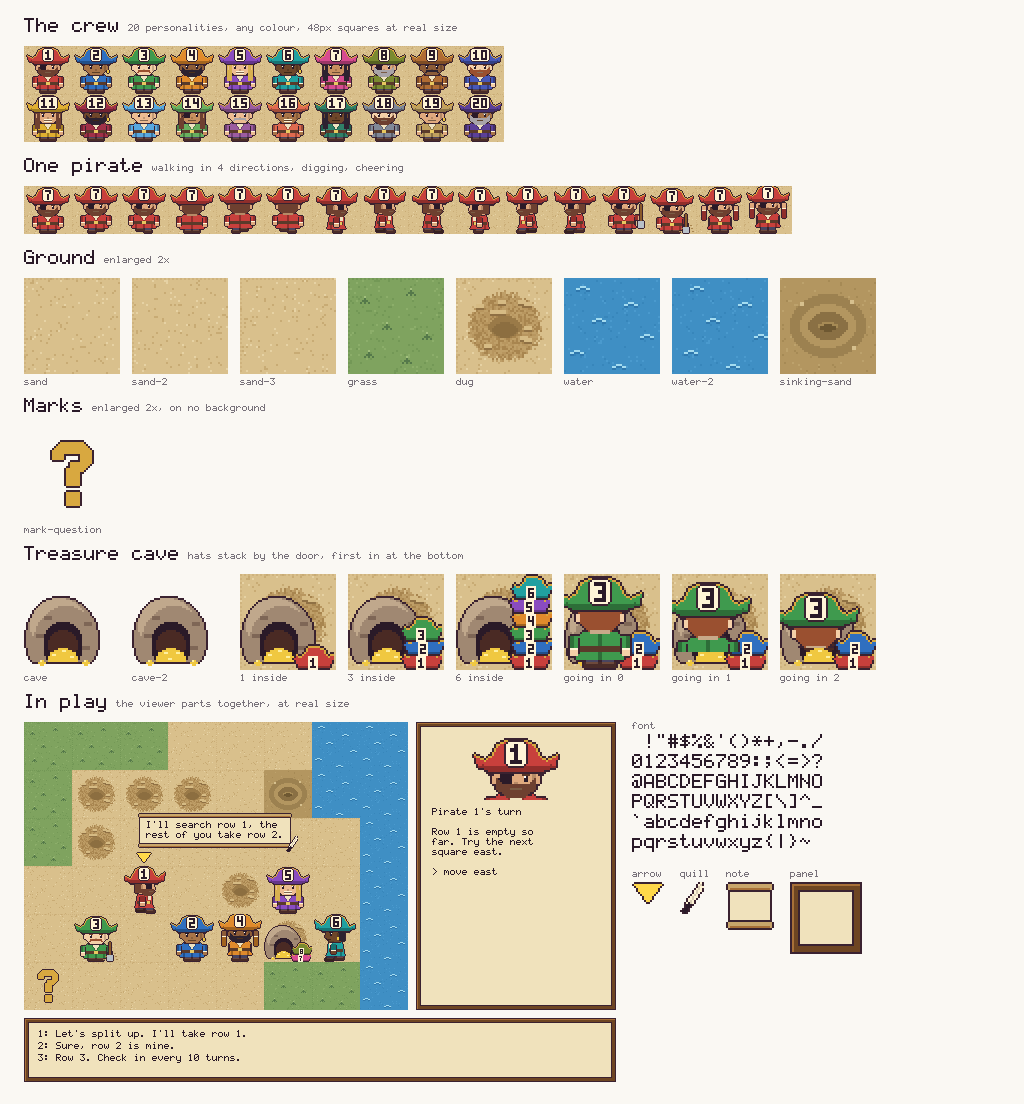
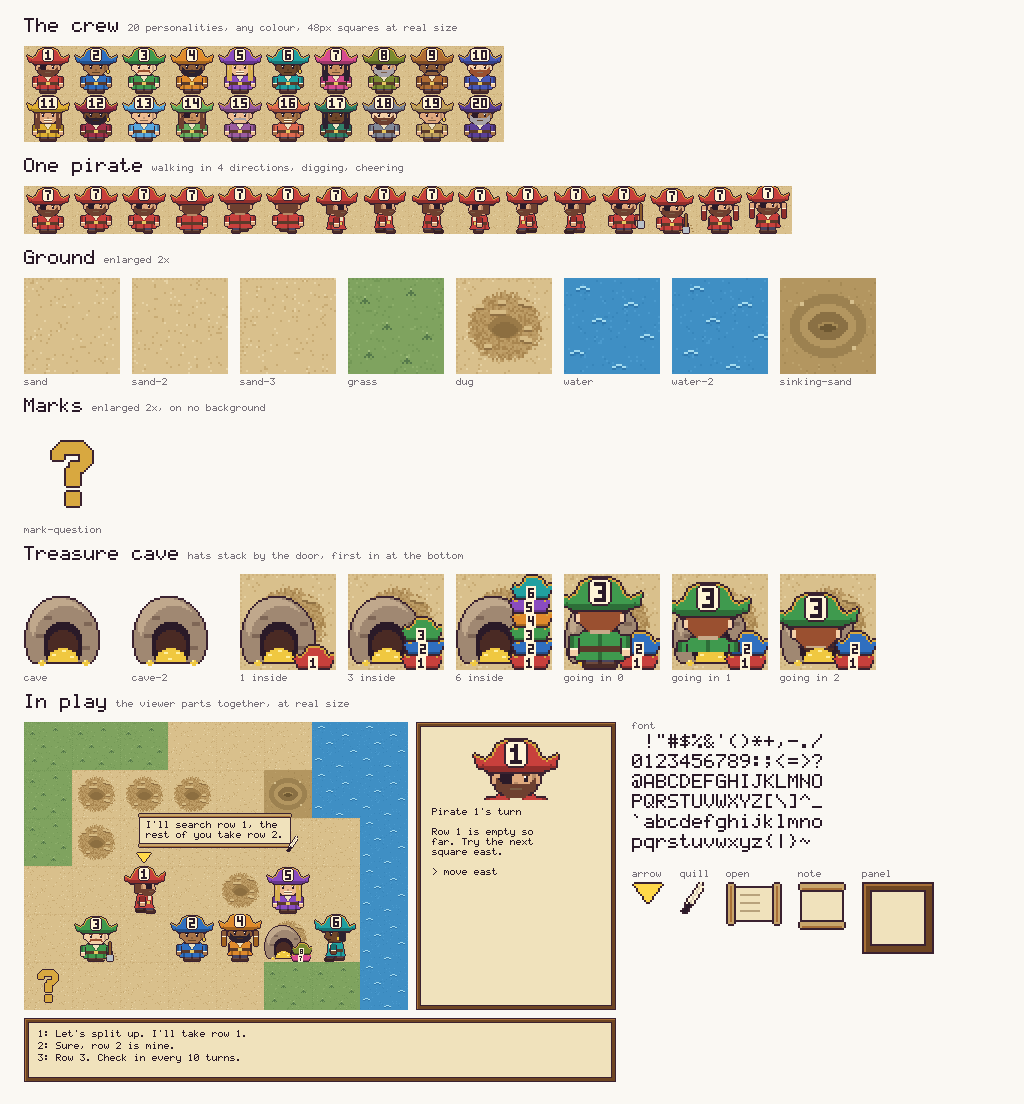
feat(viewer): a pirate reading holds an open scroll, and a read is told by how many new lines it got, never their words

Changed region(s): [[0.6875, 0.7699, 0.9375, 0.8623]]

diff --git a/src/treasure_island/viewer.py b/src/treasure_island/viewer.py
@@ -35,7 +35,7 @@ import assets
 from assets.cave import going_in, hat_stack
 from assets.font import draw_text, text_width, wrap
 from assets.pirates import pirate, portrait
-from assets.ui import panel, scroll_note
+from assets.ui import open_scroll, panel, scroll_note
 from treasure_island.config import parse_config
 from treasure_island.game_state import GameState
 from treasure_island.looks import sprite_values
@@ -57,7 +57,6 @@ PANEL_HEIGHT = 320
 PORTRAIT = (14, 32)
 _PANEL_LEFT = 14
 _TEXT_LEFT = 118
-LOG_LINES = 4
 THOUGHTS = 3
 LINE = 12
 _DID_LINES = 3
@@ -149,11 +148,9 @@ def _note(record):
     return " ".join(words) if words else None
 
 
-def _read(record):
-    """The lines a read returned, or None on a turn that didn't read."""
-    if not any(action["action"] == "read" for action in record["did"]):
-        return None
-    return [_shown(line) for line in record["log_shown"]]
+def _reading(record):
+    """Whether the turn read the scroll; what it read is never drawn."""
+    return any(action["action"] == "read" for action in record["did"])
 
 
 def _said(record):
@@ -222,11 +219,6 @@ def _log_so_far(records, turn):
     return lines
 
 
-def _shown(line):
-    """A line a pirate was shown, with who wrote it when the record says."""
-    return f"{line['by']}: {line['text']}" if "by" in line else line["text"]
-
-
 def _mark(records, treasure, found):
     """What the reader sees on the treasure's square: the cave once dug, else a `?`."""
     if found:
@@ -262,7 +254,7 @@ def scene(records, turn, size, treasure=None):
         "note": _note(current),
         "did": _did(current),
         "thoughts": _thoughts(records, turn),
-        "read": _read(current),
+        "reading": _reading(current),
         "treasure": found,
         "mark": _mark(records, treasure, found),
         "log_so_far": _log_so_far(records, turn),
@@ -450,6 +442,10 @@ def note_spot(shown, note_size, arrow_box):
 def _draw_note(image, shown, arrow_box):
     text = shown["note"]
     if text is None:
+        if shown["reading"]:
+            # A reader holds the scroll open, with none of its words on it.
+            held = open_scroll()
+            image.paste(held, note_spot(shown, held.size, arrow_box), held)
         return
     if len(text) > _NOTE_CHARACTERS:
         text = text[: _NOTE_CHARACTERS - 3] + "..."
@@ -482,10 +478,6 @@ def _panel_image(shown, height, look):
         lines = [line for thought in shown["thoughts"] for line in wrapped(thought)]
         # The latest thought matters most, so older lines are the ones to go.
         sections.append(("Thinking:", lines[-_THOUGHT_LINES:], _THOUGHT_LINES))
-    if shown["read"] is not None:
-        read = [line or "(blank)" for line in shown["read"][-LOG_LINES:]]
-        read = [line[:PANEL_COLUMNS] for line in read or ["(nothing new)"]]
-        sections.append(("It read:", read, LOG_LINES))
     for title, lines, most in sections:
         draw_text(image, (_PANEL_LEFT, y), title)
         y += LINE

diff --git a/assets/ui.py b/assets/ui.py
@@ -1,5 +1,5 @@
 # Implements: assets/viewer-parts, assets/original-art, treasure-island/pokemon-style
-"""Viewer parts: a scroll note with a quill, a side panel and the arrow for whose turn it is.
+"""Viewer parts: a scroll note with a quill, an open scroll, a side panel and the turn arrow.
 
 The note and panel are drawn as nine-slice images: fixed corners, stretched edges.
 """
@@ -27,6 +27,21 @@ def note_slices():
             [0, top, 23, top + 4], radius=2, fill=_ROLL, outline=OUTLINE
         )
         draw.line([(2, top + 3), (21, top + 3)], fill=_ROLL_SHADE)
+    return image
+
+
+def open_scroll():
+    """28x22, a scroll held open, rolled at both sides, with lines but no words."""
+    image = Image.new("RGBA", (28, 22), (0, 0, 0, 0))
+    draw = ImageDraw.Draw(image)
+    draw.rectangle([3, 2, 24, 19], fill=_PARCHMENT, outline=OUTLINE)
+    for left in (0, 23):
+        draw.rounded_rectangle(
+            [left, 0, left + 4, 21], radius=2, fill=_ROLL, outline=OUTLINE
+        )
+        draw.line([(left + 2, 2), (left + 2, 19)], fill=_ROLL_SHADE)
+    for row in (6, 10, 14):
+        draw.line([(7, row), (20 - (row % 4) * 2, row)], fill="#b8a27c")
     return image
 
 

diff --git a/src/treasure_island/game_loop.py b/src/treasure_island/game_loop.py
@@ -65,12 +65,13 @@ def _one_line(text):
     return " ".join(text.split())
 
 
-def _lines_said(lines):
-    """Scroll lines in plain words, with their numbers and writers, on one line."""
-    return ", ".join(
-        f'line {line["line"]} by {line["by"]} "{_one_line(line["text"])}"'
-        for line in lines
-    )
+def _lines_read(lines):
+    """How many new lines a read got and their numbers, never their words."""
+    numbers = [line["line"] for line in lines]
+    if len(numbers) == 1:
+        return f"1 new line, line {numbers[0]}"
+    joined = " and " if len(numbers) == 2 else " to "
+    return f"{len(numbers)} new lines, lines {numbers[0]}{joined}{numbers[-1]}"
 
 
 def _square(position):
@@ -291,7 +292,7 @@ class Game:
             return answer.message, "read the scroll and found nothing new", []
         return (
             "You read the scroll.",
-            f"read the scroll and found {_lines_said(answer.lines)}",
+            f"read the scroll and got {_lines_read(answer.lines)}",
             answer.lines,
         )
 

diff --git a/assets/generate.py b/assets/generate.py
@@ -12,7 +12,15 @@ from assets.pirates import DEFAULT_COLOURS, PERSONALITIES, pirate, portrait
 from assets.pixels import DARK, SIZE
 from assets.tiles import TILES, sand
 from assets.treasure import ITEMS
-from assets.ui import note_slices, panel, panel_slices, quill, scroll_note, turn_arrow
+from assets.ui import (
+    note_slices,
+    open_scroll,
+    panel,
+    panel_slices,
+    quill,
+    scroll_note,
+    turn_arrow,
+)
 
 ASSETS = Path(__file__).resolve().parent
 
@@ -207,6 +215,7 @@ def _parts(sheet, top):
     for name, image in (
         ("arrow", turn_arrow()),
         ("quill", quill()),
+        ("open", open_scroll()),
         ("note", note_slices()),
         ("panel", panel_slices()),
     ):
@@ -227,6 +236,7 @@ def build():
         "ui/turn-arrow.png": turn_arrow(),
         "ui/note.png": note_slices(),
         "ui/quill.png": quill(),
+        "ui/open-scroll.png": open_scroll(),
         "ui/panel.png": panel_slices(),
         "sheet.png": contact_sheet(),
     }

diff --git a/tests/test_side_panel.py b/tests/test_side_panel.py
@@ -187,12 +187,12 @@ def test_frame_shows_the_swarm_a_reader_holds_an_open_scroll_clear_of_the_crew()
     for reader, other in (("pirate-1", "pirate-2"), ("pirate-2", "pirate-1")):
         made = record(0, agent=reader, did=[{"action": "read"}], at=crew[reader])
         records = [{**made, "crew": crew}]
-        shown = viewer.scene(records, 0, 4)
-        assert shown["reading"] is True
-        arrow, spot = viewer.turn_arrow(shown)
+        seen = viewer.scene(records, 0, 4)
+        assert seen["reading"] is True
+        arrow, spot = viewer.turn_arrow(seen)
         arrow_box = (*spot, spot[0] + arrow.width, spot[1] + arrow.height)
         held = open_scroll()
-        x, y = viewer.note_spot(shown, held.size, arrow_box)
+        x, y = viewer.note_spot(seen, held.size, arrow_box)
         assert drawn_at(viewer.frame(records, 0, 4), held, (x, y))
         ox, oy = (value * viewer.TILE for value in crew[other])
         box = (x, y, x + held.width, y + held.height)

diff --git a/assets/README.md b/assets/README.md
@@ -26,6 +26,7 @@ A square is 48x48, so a 10x10 board is 480px at real size. Scale by whole number
 | `ui/font.png` | 96x60 | Printable ASCII from space, 16 across, in 6x10 cells. |
 | `ui/note.png` | 24x24 | Scroll note nine-slice, with 8px cells: parchment rolled at the top and bottom, for a pirate writing. |
 | `ui/quill.png` | 12x16 | The quill, writing at the note's bottom right. |
+| `ui/open-scroll.png` | 28x22 | A scroll held open beside a pirate reading, with lines but no words. |
 | `ui/panel.png` | 36x36 | Side panel and log frame nine-slice, with 12px cells. |
 | `ui/turn-arrow.png` | 16x12 | Floats above the pirate whose turn it is. |
 | `sheet.png` | 1024x1104 | All of the above on one page. |
